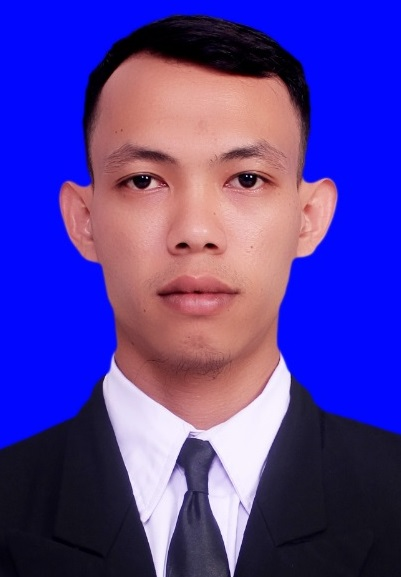
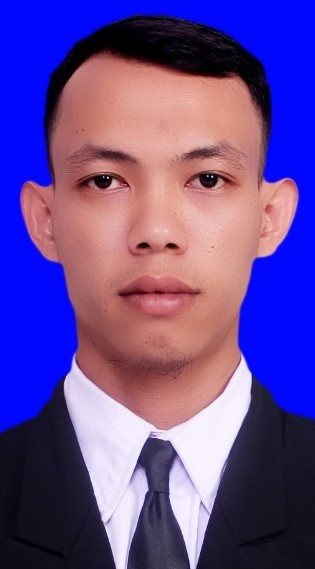
Cv

diff --git a/index.html b/index.html
@@ -14,7 +14,7 @@
 			<div class="Photo">
 				<div class="img_holder">
 					<!--  Photo Profil  -->
-					<img src="photo.jpg" alt="picture" height="200" width="200">
+					<img src="photo.jpg"  >
 				</div>
 				<div class="left">
 					<div class="contact_wrap pb">
@@ -124,7 +124,7 @@
 											
 											<i class="fa fa-language" aria-hidden="true"></i></div>
 										<!--  Hobi  -->
-										<div class="text">Indonesia : Aktif</div>
+										<div class="text">Indonesia : Active</div>
 									</div>
 								</li>
 								<li>
@@ -133,7 +133,7 @@
 											
 											<i class="fa fa-language" aria-hidden="true"></i></div>
 											<!--  Hobi  -->
-											<div class="text">English : Pasif</div>
+											<div class="text">English : Passive</div>
 									</div>
 								</li>
 								<li>
@@ -180,11 +180,11 @@
 												Founder,Dig IT
 											</p>
 											<p class="info_cont">
-												<ul>Creating a website design</ul>
-												<ul>Frameworks</ul>
+												<ul>Creating a website design.</ul>
+												<ul>Frameworks.</ul>
 												<ul>API website.</ul>
-												<ul>Structuring the data model</ul>
-												<ul>Provide solutions to the server when problems occur during operation</ul>
+												<ul>Structuring the data model.</ul>
+												<ul>Provide solutions to the server when problems occur during operation.</ul>
 											</p>
 										</div>
 									</div>
@@ -275,10 +275,8 @@
 											</p>
 											<p class="info_cont">
 												
-												<ul>Understand step by step designing a web-based application system both front-end and back-end.</ul>
-                                                <ul>Creating a client server system on a website.</ul>
-                                                <ul>Able to make web applications that are reliable, secure and scalable.</ul>
-                                                <ul>Designing a website that is capable of data storage, transaction management effectively and efficiently.</ul>
+                                                <ul>Applications on a device..</ul>
+                                                <ul>Learning about programming, the business world, and also management.</ul>
 											</p>
 										</div>
 									</div>

diff --git a/styles.css b/styles.css
@@ -34,13 +34,17 @@ body{
 
 .Photo .img_holder{
 	text-align: center;
-	padding: 19px 0;
+	padding: 10px 0;
+	
 }
 
 .Photo .img_holder img{
-	width: 200px;
-	border-radius: 30px;
+	width: 12vh;
+	max-height: 150vh;
+	border-radius: 10%;
+    border: 1px solid rgba(0, 0, 0, 0.25);
 }
+
 
 .pb{
 	padding-bottom: 12px;
@@ -211,7 +215,7 @@ body{
 .Photo{
 	/* background warna di box photo */
 	background: #4c4d4f;
-	width: 270px;
+	width: 250px;
 	height: 240px;
 }
 .header .name{
